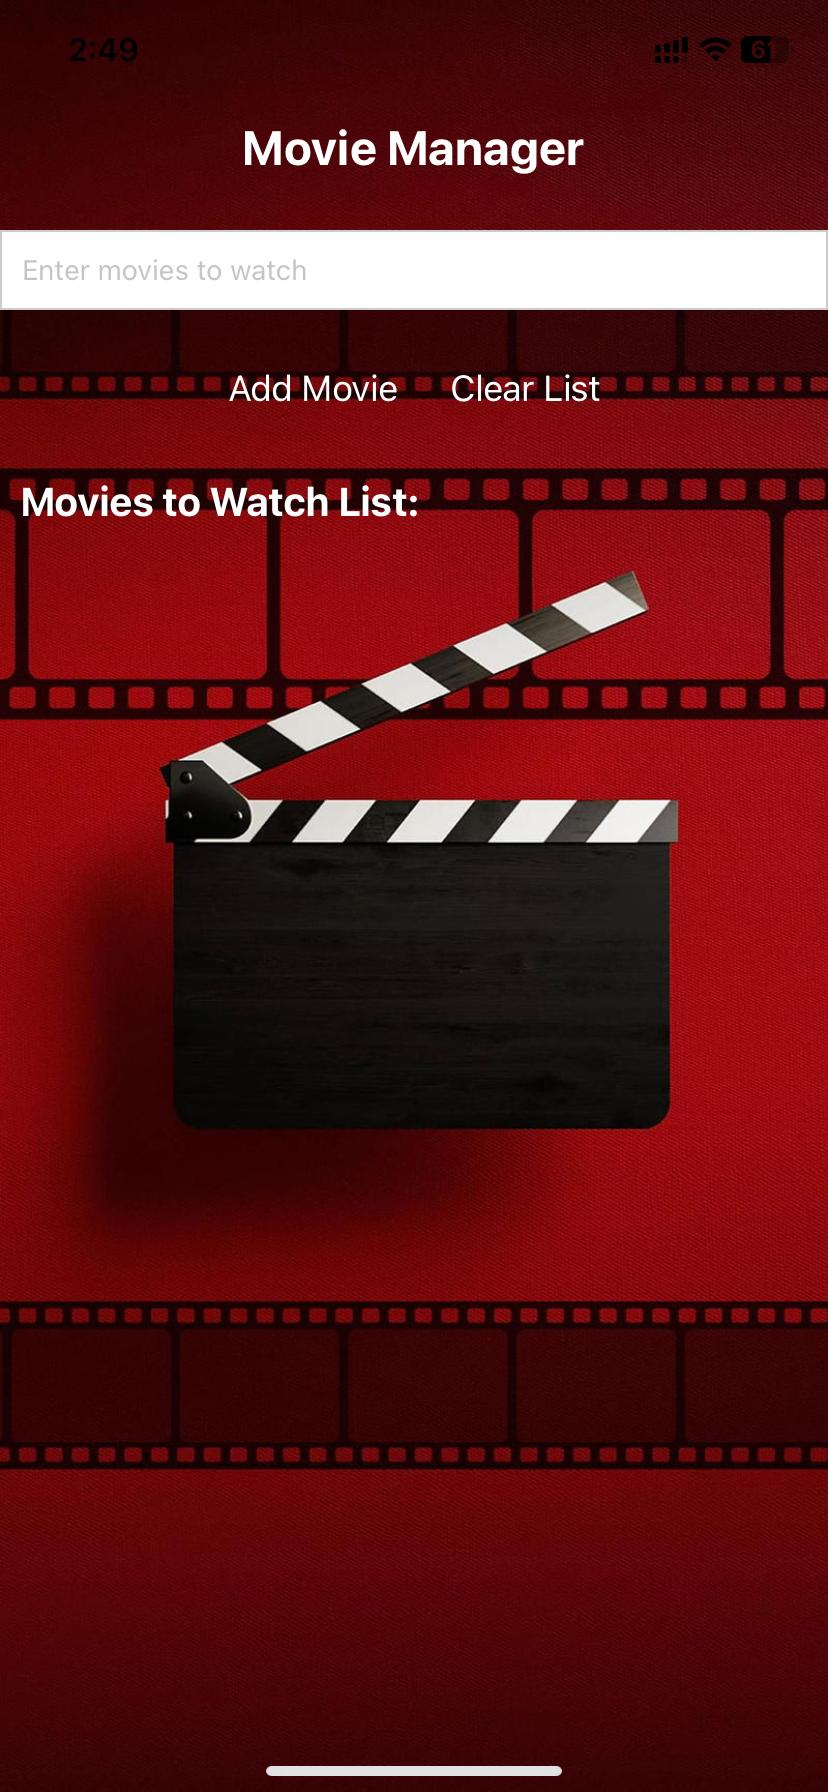
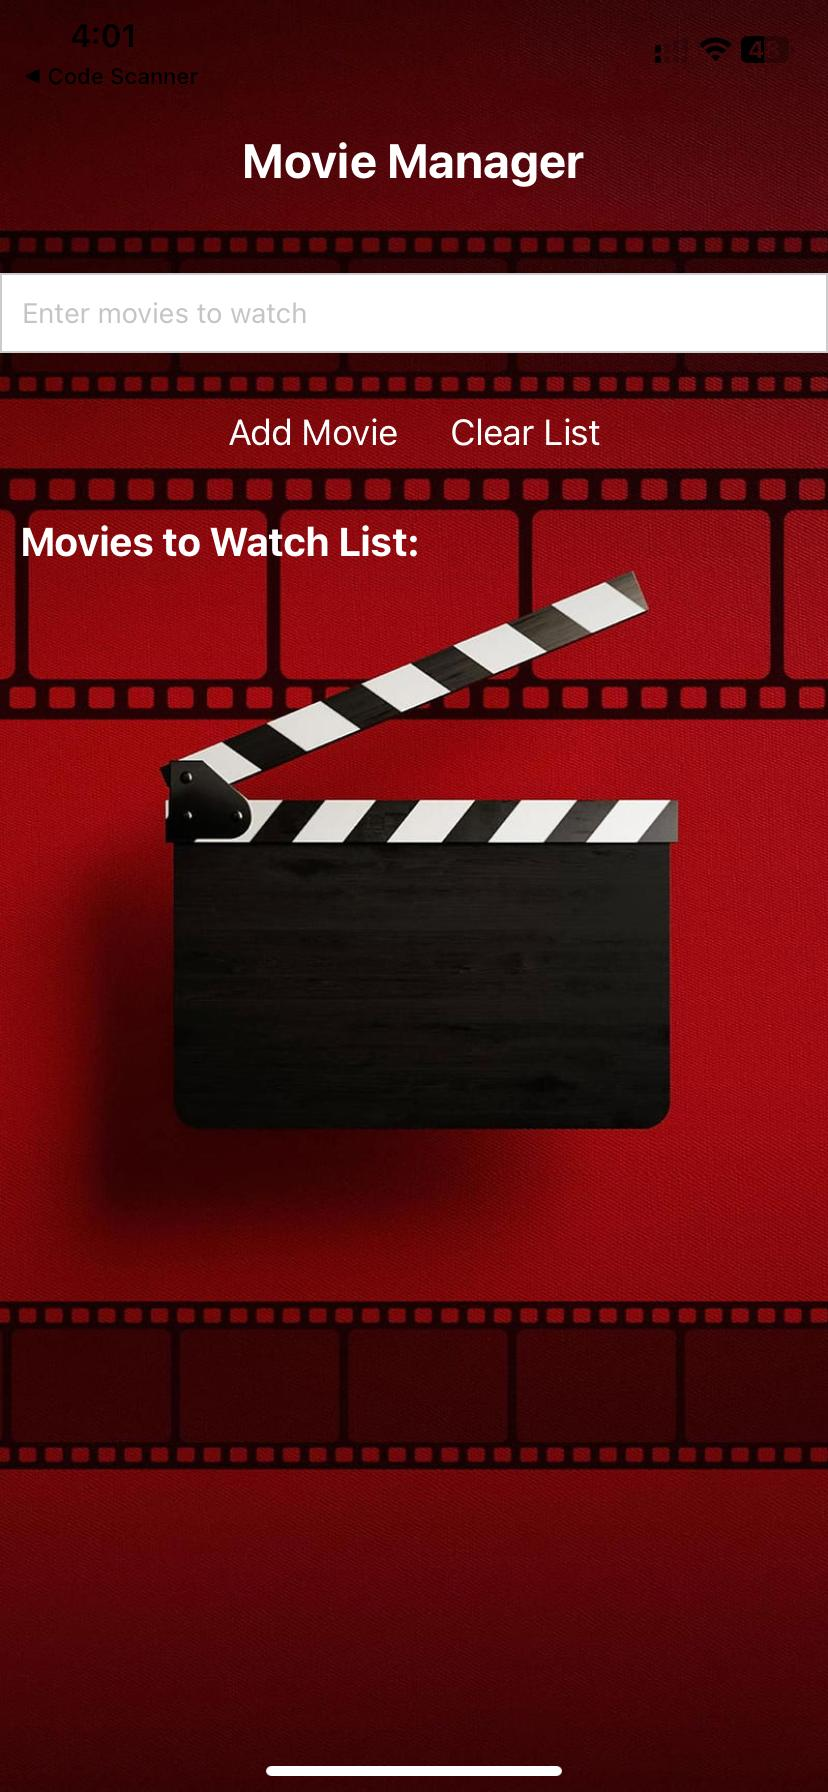
images added

diff --git a/ListManagementApp/App.js b/ListManagementApp/App.js
@@ -91,6 +91,7 @@ const styles = StyleSheet.create({
     fontWeight: 'bold',
     color: '#fff',
     textAlign:'center',
+    marginTop: -20,
   },
   movieItem: {
     padding: 10,
@@ -113,7 +114,7 @@ const styles = StyleSheet.create({
   },
   appNameContainer:{
     flex: 1,
-    marginTop: -50,
+    marginTop: -20,
   },
   textInput: {
     width: '100%',
